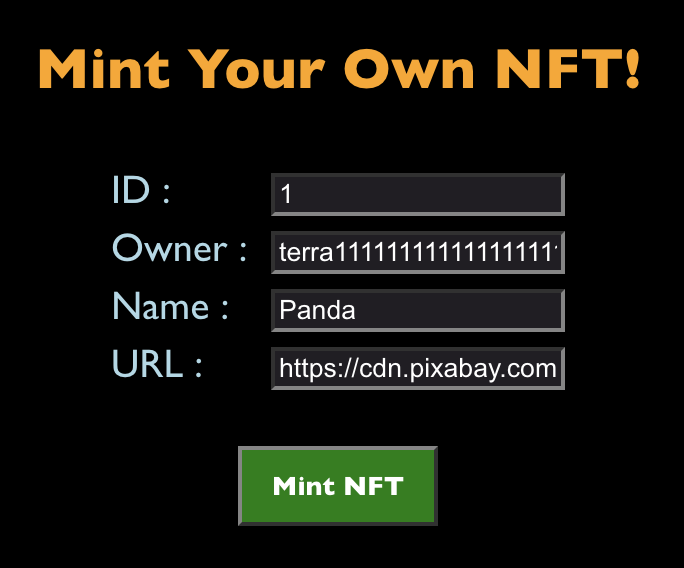
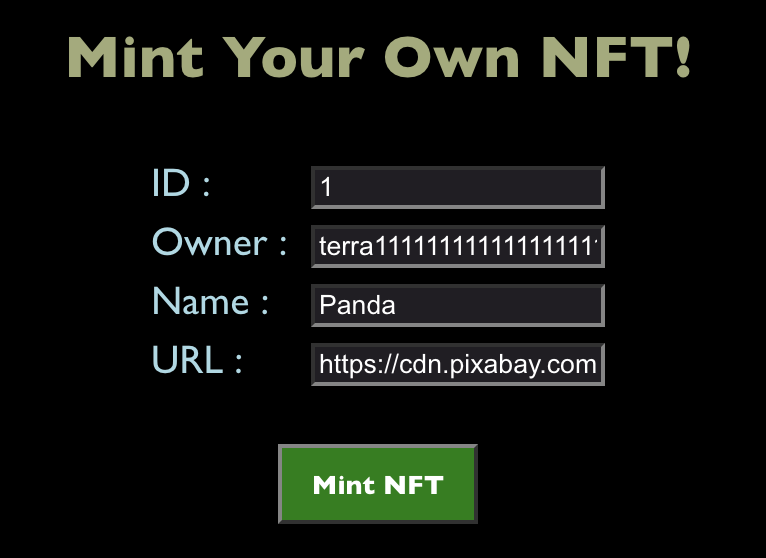
style: updating README, images and app styling.

diff --git a/frontend/src/App.js b/frontend/src/App.js
@@ -34,7 +34,7 @@ function App() {
   return (
     <div className='App'>
       <header className='App-header' style={{ backgroundColor: 'black', fontFamily: 'Gill Sans' }}>
-        <h3 style={{ display: 'inline', color: 'orange' }}>
+        <h3 style={{ display: 'inline', color: '#A3AB78' }}>
           Mint Your Own NFT!
         </h3>
         {updating && (
@@ -44,7 +44,7 @@ function App() {
         )}
         {status === WalletStatus.WALLET_CONNECTED && (
           <div style={{ display: 'inline' }}>
-            <label style={{ color: 'lightblue', fontSize: '20px', width: '80px', display: 'inline-block', textAlign: 'left' }}>ID : </label>
+            <label style={{ color: '#10454F', fontSize: '20px', width: '80px', display: 'inline-block', textAlign: 'left' }}>ID : </label>
             <input
               type='number'
               onChange={(e) => setTokenId(e.target.value)}
@@ -52,7 +52,7 @@ function App() {
               style={{ backgroundColor: '#201E23' }}
             />
             <br/>
-            <label style={{ color: 'lightblue', fontSize: '20px', width: '80px', display: 'inline-block', textAlign: 'left' }}>Owner : </label>
+            <label style={{ color: '#10454F', fontSize: '20px', width: '80px', display: 'inline-block', textAlign: 'left' }}>Owner : </label>
             <input
               type='text'
               onChange={(e) => setAddress(e.target.value)}
@@ -60,7 +60,7 @@ function App() {
               style={{ backgroundColor: '#201E23' }}
             />
             <br/>
-            <label style={{ color: 'lightblue', fontSize: '20px', width: '80px', display: 'inline-block', textAlign: 'left' }}>Name : </label>
+            <label style={{ color: '#10454F', fontSize: '20px', width: '80px', display: 'inline-block', textAlign: 'left' }}>Name : </label>
             <input
               type='text'
               onChange={(e) => setNFTName(e.target.value)}
@@ -68,7 +68,7 @@ function App() {
               style={{ backgroundColor: '#201E23' }}
             />
             <br/>
-            <label style={{ color: 'lightblue', fontSize: '20px', width: '80px', display: 'inline-block', textAlign: 'left' }}>URL : </label>
+            <label style={{ color: '#10454F', fontSize: '20px', width: '80px', display: 'inline-block', textAlign: 'left' }}>URL : </label>
             <input
               type='text'
               onChange={(e) => setImageURL(e.target.value)}
@@ -88,8 +88,8 @@ function App() {
             <br/>
             {nft_metadata !== null && (
               <p>
-                <h4 style={{ color: 'lightgreen' }}>NFT Successfully Minted!</h4>
-                <h5 style={{ color: 'gold' }}>NFT : {nft_metadata.extension.name}</h5>
+                <h4 style={{ color: '#A3AB78' }}>NFT Successfully Minted!</h4>
+                <h5 style={{ color: '#10454F' }}>NFT : {nft_metadata.extension.name}</h5>
                 <img style={{ maxWidth: '200px' }} src={nft_metadata.extension.image}></img>
               </p>
             )}

diff --git a/README.md b/README.md
@@ -101,11 +101,11 @@ Once the contract deployment is successfully completed, you may change into the 
 <br/>
 
 <div align="center">
-  <img src="readme_images/application.png" alt="Localterra on the Terra Station extension" style="width: 400px; height: 332px;"/>
+  <img src="readme_images/application.png" alt="Localterra on the Terra Station extension" style="width: 400px; height: 291.4px;"/>
 </div>
 <br/>
 
-As shown above, you may fill out all of the necessary information on the form to mint your first NFT. Token ID may be any number that you would like to correspond to the ID of the new NFT. The owner address is the wallet address which will be the owner of the newly minted NFT (our test1 wallet address in this case). You may then enter a name for the NFT as well as input its corresponding URL.
+As shown above, you may fill out all of the necessary information on the form to mint your first NFT. ID may be any number that you would like to correspond to the ID of the new NFT. The Owner is the wallet address which will be the owner of the newly minted NFT (our test1 wallet address in this case). You may then enter a name for the NFT as well as input its corresponding URL.
 
 In general, many prefer to host their NFTs on IPFS (Interplanetary File System). You may use a variety of resources in order to post an NFT on IPFS. One service that you may use is [pinata](https://www.pinata.cloud/). In this example I have copied an image address of a copyright free image from [Pixabay](https://pixabay.com/).
 
@@ -114,6 +114,6 @@ Now we are ready to mint our NFT! After we click on the _Mint NFT_ button, we wi
 <br/>
 
 <div align="center">
-  <img src="readme_images/nft_minted.png" alt="Localterra on the Terra Station extension" style="width: 400px; height: 729.5px;"/>
+  <img src="readme_images/nft_minted.png" alt="Localterra on the Terra Station extension" style="width: 400px; height: 705.05px;"/>
 </div>
 <br/>
